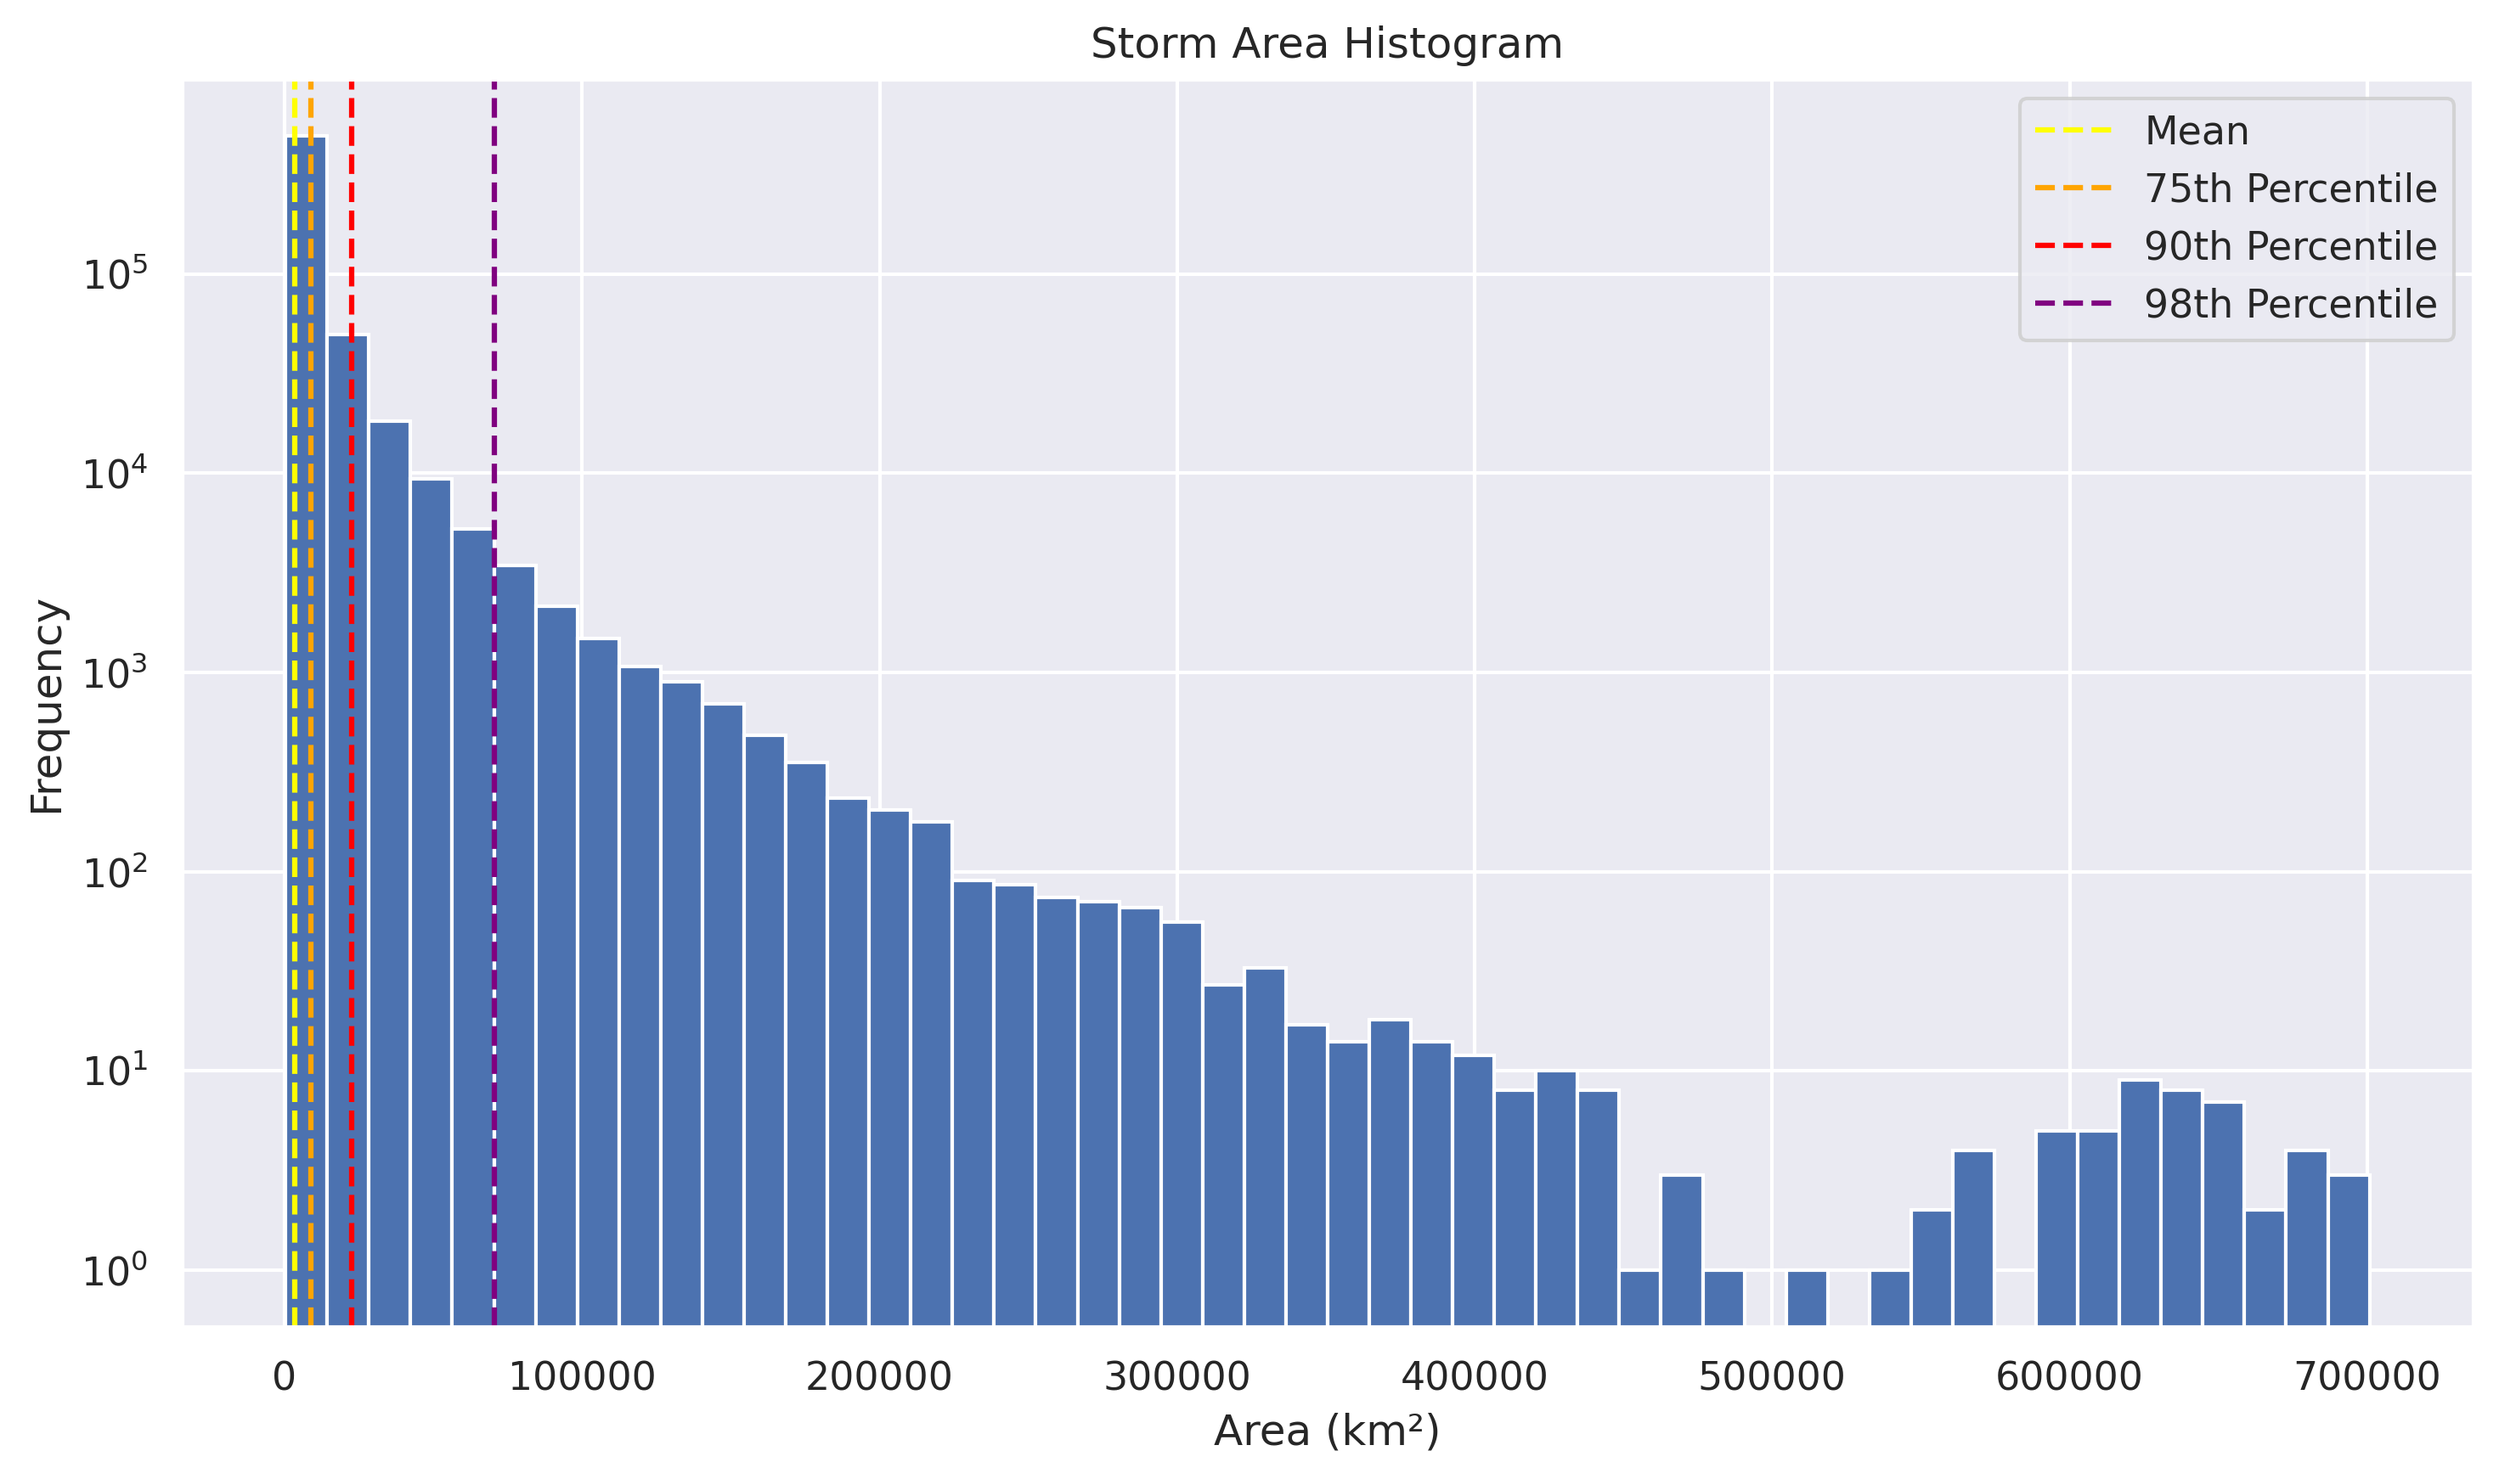
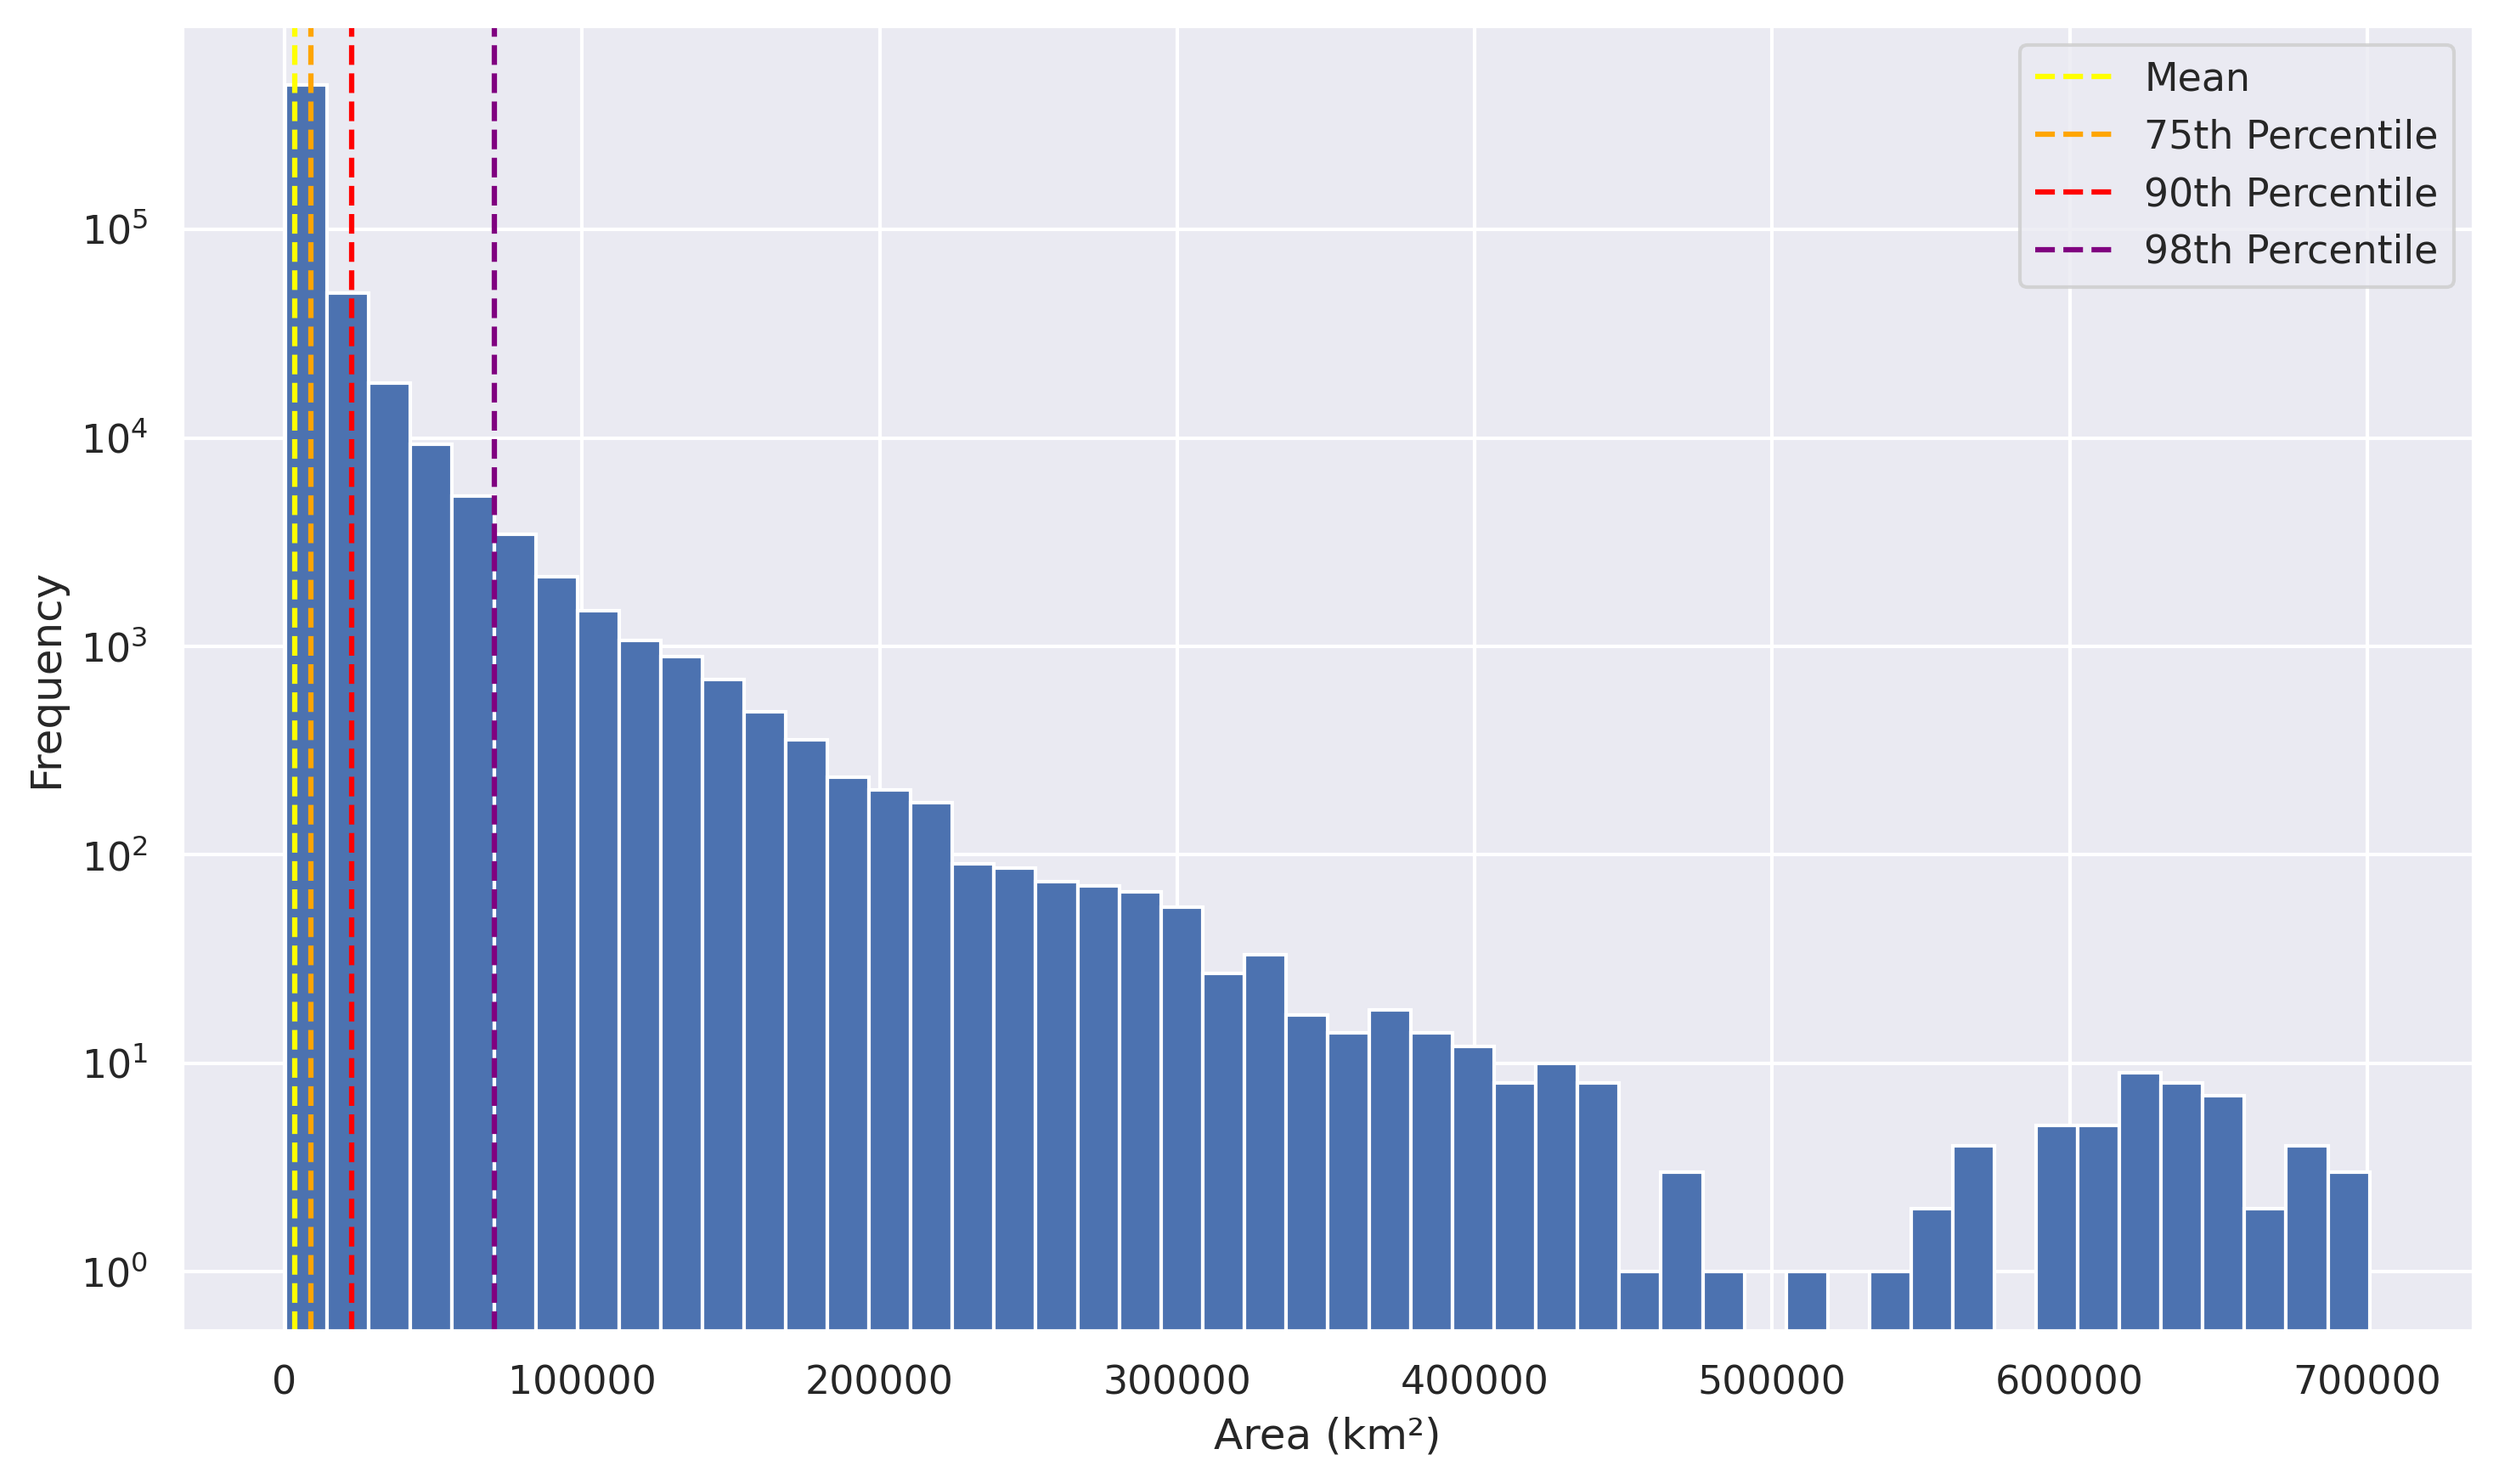
remove title in storm area histogram

diff --git a/src/create_figures.py b/src/create_figures.py
@@ -339,7 +339,7 @@ plt.legend()
 
 plt.xlabel("Area (km²)")
 plt.ylabel("Frequency")
-plt.title("Storm Area Histogram")
+# plt.title("Storm Area Histogram")
 plotting.save_plot("storm_area_hist.png")
 print(f"Mean storm area: {df['area'].quantile(0.5)} km²")
 
